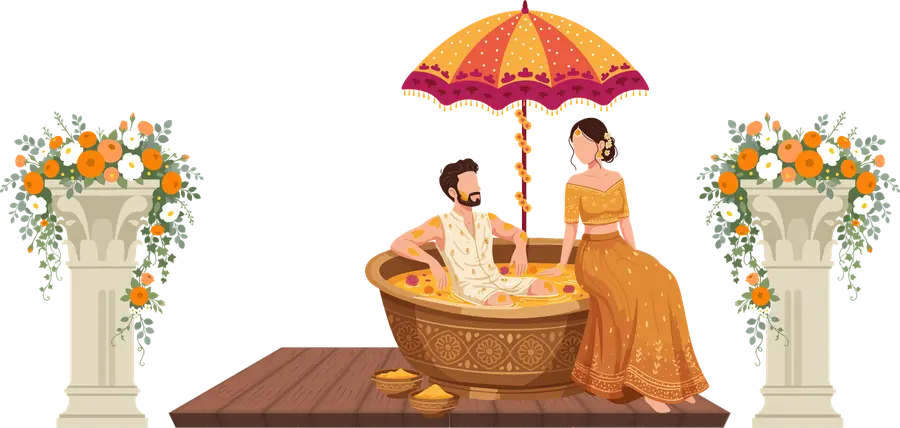
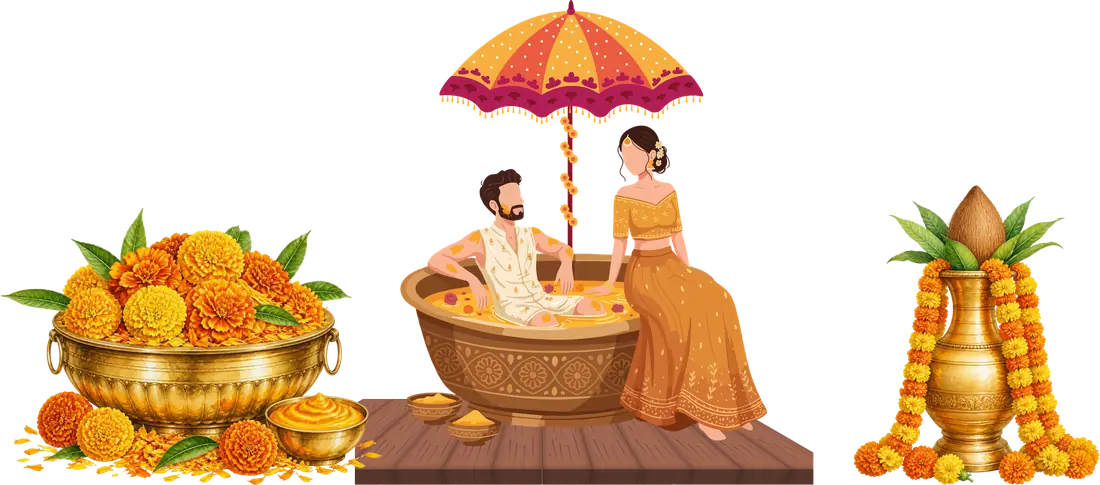
New high-res floral art (Canva): distinct lotus pair on cover, rose & jasmine sprays on hero, centred Haldi scene with marigold urli and kalash
Claude-Session: https://claude.ai/code/session_017GcfSBjfveMfY8L2d8GX4C

diff --git a/css/style.css b/css/style.css
@@ -545,7 +545,7 @@ body::after {
    Printed-card artwork: Ganpati, couple scenes
    ========================================================================== */
 /* opening screen: the card's first page — couple between lotuses, standing on the bottom edge */
-.intro { --scene-h: min(30vh, calc(min(100vw, 760px) * .424)); }
+.intro { --scene-h: min(32vh, calc(min(100vw, 760px) * .515)); }
 .intro__inner { padding-bottom: calc(var(--scene-h) * .85); }
 .intro__scene {
   position: absolute; left: 50%; bottom: 0; translate: -50% 0; z-index: 1;
@@ -605,12 +605,19 @@ body::after {
   .milestone::after { left: calc(50% - 2.5px); }
 }
 
-/* ---------- Hero: lotus clusters from the card, rising from the bottom corners ---------- */
+/* ---------- Hero: hanging rose & jasmine sprays in the top corners ---------- */
 .hero__content { position: relative; z-index: 1; }
-.hero__lotus {
-  position: absolute; bottom: -2px; z-index: 0; width: clamp(110px, 31vw, 210px); height: auto; pointer-events: none;
-  opacity: 0; translate: 0 30px;
+.hero__spray {
+  position: absolute; top: 0; z-index: 0; width: min(40vw, 20vh, 330px); height: auto; pointer-events: none;
+  opacity: 0; translate: 0 -24px; filter: drop-shadow(0 6px 18px rgba(20, 8, 10, .25));
 }
-.hero__lotus--left { left: -3%; }
-.hero__lotus--right { right: -3%; transform: scaleX(-1); }
-.hero.is-ready .hero__lotus { opacity: .95; translate: 0 0; transition: opacity 1.6s var(--ease) 1.2s, translate 1.8s var(--ease-out) 1.2s; }
+.hero__spray--left  { left: -4%; }
+.hero__spray--right { right: -4%; }
+.hero.is-ready .hero__spray { opacity: 1; translate: 0 0; transition: opacity 1.8s var(--ease) 1s, translate 2s var(--ease-out) 1s; }
+.nav:not(.is-solid) .nav__mark, .nav:not(.is-solid) .nav__cta { text-shadow: 0 1px 10px rgba(30, 10, 14, .55); }
+.hero::after { content: ""; position: absolute; left: 0; right: 0; top: 0; height: 130px; z-index: 0; pointer-events: none;
+  background: linear-gradient(180deg, rgba(38, 13, 18, .62), rgba(38, 13, 18, 0)); }
+@media (min-width: 900px) {
+  .hero__spray { width: min(19vw, 290px); top: -5vh; }
+  .hero__spray--left { left: -1.5%; } .hero__spray--right { right: -1.5%; }
+}

diff --git a/index.html b/index.html
@@ -67,7 +67,7 @@
   <div class="intro" id="intro" aria-hidden="false">
     <div class="intro__panel intro__panel--top"></div>
     <div class="intro__panel intro__panel--bottom"></div>
-    <img class="intro__scene" src="assets/flora/cover.webp" alt="" width="960" height="407" aria-hidden="true" fetchpriority="high">
+    <img class="intro__scene" src="assets/flora/cover.webp" alt="" width="1200" height="618" aria-hidden="true" fetchpriority="high">
     <div class="intro__inner">
       <span class="sym sym--ganesh intro__ganesh" role="img" aria-label="Shri Ganesh"></span>
       <div class="monogram monogram--lg" aria-hidden="true">
@@ -104,8 +104,8 @@
     <section class="hero" id="top">
       <div class="hero__media" id="heroMedia" data-tone="dark"></div>
       <div class="hero__shade"></div>
-      <img class="hero__lotus hero__lotus--left" src="assets/flora/lotus-group.webp" alt="" width="316" height="329" aria-hidden="true">
-      <img class="hero__lotus hero__lotus--right" src="assets/flora/lotus-group.webp" alt="" width="316" height="329" aria-hidden="true">
+      <img class="hero__spray hero__spray--left" src="assets/flora/spray-left.webp" alt="" width="560" height="769" aria-hidden="true">
+      <img class="hero__spray hero__spray--right" src="assets/flora/spray-right.webp" alt="" width="560" height="796" aria-hidden="true">
       <div class="hero__content">
         <p class="eyebrow hero__eyebrow" data-bind="hero.eyebrow"></p>
         <h1 class="hero__names">
@@ -259,7 +259,7 @@
     <p class="footer__tag" data-bind="couple.hashtag"></p>
     <div class="footer__contacts" id="contacts"></div>
     <p class="footer__sign" data-bind="signoff"></p>
-    <img class="footer__scene" src="assets/flora/cover.webp" alt="" width="960" height="407" loading="lazy" decoding="async" aria-hidden="true">
+    <img class="footer__scene" src="assets/flora/cover.webp" alt="" width="1200" height="618" loading="lazy" decoding="async" aria-hidden="true">
   </footer>
 
   <!-- ============ LIGHTBOX ============ -->
